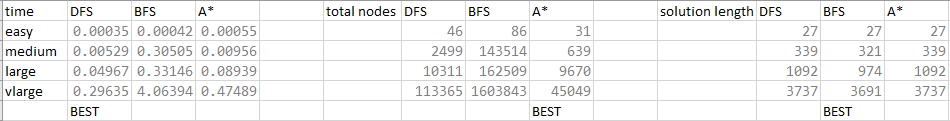
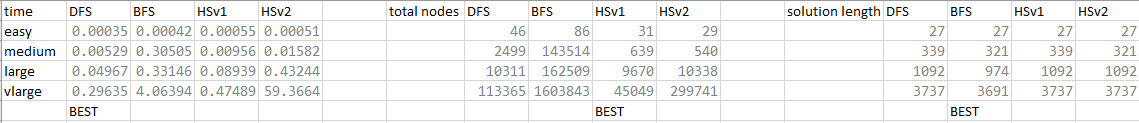
heuristic search v2

diff --git a/heuristicSearchV2.py b/heuristicSearchV2.py
@@ -1,0 +1,95 @@
+from time import perf_counter
+from nodes import Node, step, mazePrep
+
+'''
+Arguments: the name of a text file containing a maze
+
+Calculate the start and end points of the maze.
+Create a priority queue to store unvisited nodes.
+Create a count to keep track of the number of nodes visited.
+While there is a node in the nodeList:
+    Find the node with the lowest heuristic value and mark it as the next node to be visited
+    If the node is the goal node (indicated by it's self.position['y'] value)
+        Print metrics about the performance
+
+Output: the number of nodes visited, the length of the solution path, and the solution path
+'''
+def heuristicSearch(filename: str) -> None:
+    timestart = perf_counter()
+    text = open(filename, 'r').readlines()
+    maze = mazePrep(text)
+
+    #find the exit node in the bottom row
+    for n, cell in enumerate(maze[-1]):
+        if cell == '-':
+            endpoint = Node(n, len(maze)-1, None)
+    #find the starting node in the top row
+    for n, cell in enumerate(maze[0]):
+        if cell == '-':
+            startpoint = Node(n, 0, 1)
+            startpoint.calcHeuristic(endpoint)
+    
+    count = 1                                           #create a count of total nodes visited
+    nodeList = []                                        #create a nodeList to store unvisited nodes
+    nodeList.append(startpoint)    #add the starting node to the nodeList
+
+    while nodeList:
+        #find the node with the lowest heuristic value and mark it as the next node to be visited
+        currentNode = nodeList[0]
+        for node in nodeList:
+            if node.heuristic < currentNode.heuristic:
+                currentNode = node
+        maze[currentNode.position['y']][currentNode.position['x']] = 'x'
+
+        #since the only '-' character on the bottom line is stated to be the exit, the check is quite simple
+        if currentNode.position['y'] == len(maze)-1:
+            timestop = perf_counter()
+            solutionLength = currentNode.cost
+            print('Exit found for ' + filename)
+            print('Time: ' + str( round((timestop-timestart), 5)) + 'secs')
+            print('Total Nodes visited: ' + str(count))
+            print('Solution Length: ' + str(solutionLength))
+
+            pathNode = currentNode
+            path = []
+            #calculate the solution path:
+            while pathNode.cost != 1:
+                path.append('(' + str(pathNode.position['x']) + ',' + str(pathNode.position['y']) + ')')
+                pathNode = pathNode.parent
+
+            #write the solution path to a file in lines of 20 coordinates
+            path.append('(' + str(startpoint.position['x']) + ',' + str(startpoint.position['y']) + ')')
+            path.reverse()
+            with open(filename+'-output.txt', 'w') as f:
+                for n, point in enumerate(path):
+                    if(n % 20 == 0):
+                        f.write(point + '\n')
+                    else:
+                        f.write(point + ' ')
+
+            return (count, solutionLength, path)
+
+        #if the node is not the goal node, find the nodes that can be reached from it
+        newNodes = step(currentNode, maze)
+        count += 1
+
+        #so that the path can be found, give each node the identity of its parent and the heuristic value
+        nodeList.extend(newNodes)
+        for node in newNodes:
+            node.parent = currentNode
+            node.calcHeuristic(endpoint)
+
+        #remove the current node from the nodeList
+        nodeList.remove(currentNode)
+    
+    #if the nodeList is empty, no solution was found
+    print('No exit found for ' + filename)
+
+if __name__ == '__main__':
+    #heuristicSearch('./mazes/tests/default.txt')
+    #heuristicSearch('./mazes/tests/dead-ends.txt')
+    #heuristicSearch('./mazes/tests/change-direction.txt')
+    heuristicSearch('./mazes/maze-Easy.txt')
+    heuristicSearch('./mazes/maze-Medium.txt')
+    heuristicSearch('./mazes/maze-Large.txt')
+    heuristicSearch('./mazes/maze-VLarge.txt')

diff --git a/README.md b/README.md
@@ -7,11 +7,12 @@ maze imported from a text file.
 
 - nodes.py contains code vital to run other python scripts in this project.
 - The full path will be output in the same folder as the input file, with the
-  same name as the input file, but with the extension "-output.txt".
+  same name as the input file, but with the addition "-output.txt".
 - At the bottom of each file there is a selection of commented lines to run different mazes.
 - Running the project: 
     - Run in terminal: python3 \[filename\].py
     - Run in IDLE: Press F5
+- All results can be viewed in the "results.png" or "results.xlsx" files.
 
 ### Questions:
 
@@ -36,13 +37,9 @@ another path.
 Path:
 
 (1,0), (1,1), (2,1), (3,1), (4,1), (5,1), 
-
 (5,2), (5,3), (5,4), (5,5), (6,5), (7,5), 
-
 (8,5), (8,6), (9,6), (10,6), (11,6), (12,6), 
-
 (13,6), (14,6), (15,6), (16,6), (17,6), (17,7), 
-
 (17,8), (18,8), (18,9)
 
 #### 1.2.3: DFS Analysis (Refer to depthFirstSearch.py)
@@ -109,13 +106,9 @@ Solution Length: 27
 The path to the goal:
 
 (1,0), (1,1), (2,1), (3,1), (4,1), (5,1), 
-
 (5,2), (5,3), (5,4), (5,5), (6,5), (7,5), 
-
 (8,5), (8,6), (9,6), (10,6), (11,6), (12,6), 
-
 (13,6), (14,6), (15,6), (16,6), (17,6), (17,7), 
-
 (17,8), (18,8), (18,9)
 
 **maze-Medium**
@@ -163,6 +156,8 @@ using BFS could be saved by the reduced time traversing the maze.
 
 #### Further Experimentation, Depth of Analysis and Discussion (Refer to nodes.py and heuristicSearch.py)
 
+##### Messing With Previous Algorithms
+
 I tested changing the order I added new nodes to the data-structure 
 in each search algorithm, for BFS this did not greatly affect the performance, 
 likely because BFS is almost gurenteed to check all of a nodes neighbours 
@@ -177,17 +172,27 @@ away from the goal. This was the best order I found:
 3. Left
 4. Up
 
-I also implemented a heuristic search (similar to A*) which would take the co-ordinates 
+##### Heuristic Search V1 (Refer to heuristicSearch.py)
+
+I also implemented a heuristic search (greedy) which would take the co-ordinates 
 of the each node calculate the direct distance to the goal node. Then, instead of a queue or stack,
 I used a priority queue which would always put the node with the shortest heuristic at the front.
 
 The first thing I noticed was that the algorithm visited the fewest nodes in maze-Easy.txt, 
-which was a promising start. This trend continued, with A* only searching 40% of the nodes DFS 
+which was a promising start. This trend continued, with the greedy search only searching 40% of the nodes DFS 
 did and only 3% the nodes of BFS (for the VLarge maze).
 
-However, the algorithm found a slightly longer path than BFS and was slightly slower than DFS. 
+However, the algorithm found a path of the same length as DFS but was slightly slower than DFS. 
 This is likely because python's priority queue is not blazingly fast, so if I were able to 
-implement a more efficient method of choosing a next node, I could possibly make this algorithm 
-faster than DFS.
+implement a more efficient method of choosing the node with the lowest heuristic, I could 
+possibly make this algorithm faster than DFS.
 
-This can all be viewed in the "results.png" or "results.xlsx" files.
+##### Heuristic Search V2 (Refer to heuristicSearchV2.py)
+
+I then made a slight change to the algorithm (refer to heuristicSearchV2.py) where instead of 
+using python's priority queue, I used a list and searched it for the node with the lowest heuristic.
+
+This was quite the enigma. I think that it has a O(k^n) because it was ok for the smaller mazes, 
+but suddenly shot up for Large.txt and VLarge.txt. As for the other metrics, it was completely unpredictable.
+Sometimes it would return the DFS solution, other times it would find the BFS solution. Therefore, I would say that
+this algorithm is not very reliable and version one is superior.
